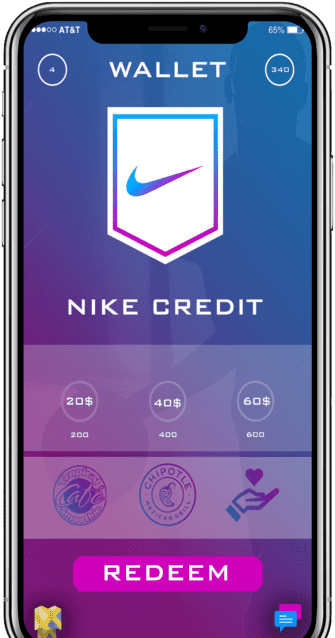
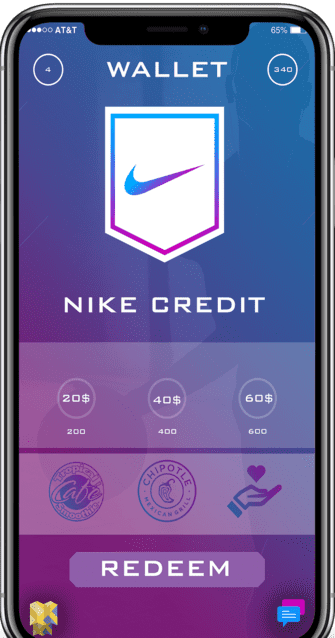
change images

diff --git a/index.html b/index.html
@@ -142,7 +142,7 @@
 
 				<div class="col-md-6">
 					<div class="features_img pull-left">
-						<img src="images/min/3ScreenIsolated.png" alt="image">
+						<img src="images/min/3-Screen-new.jpg" alt="image">
 					</div>
 				</div>
 
